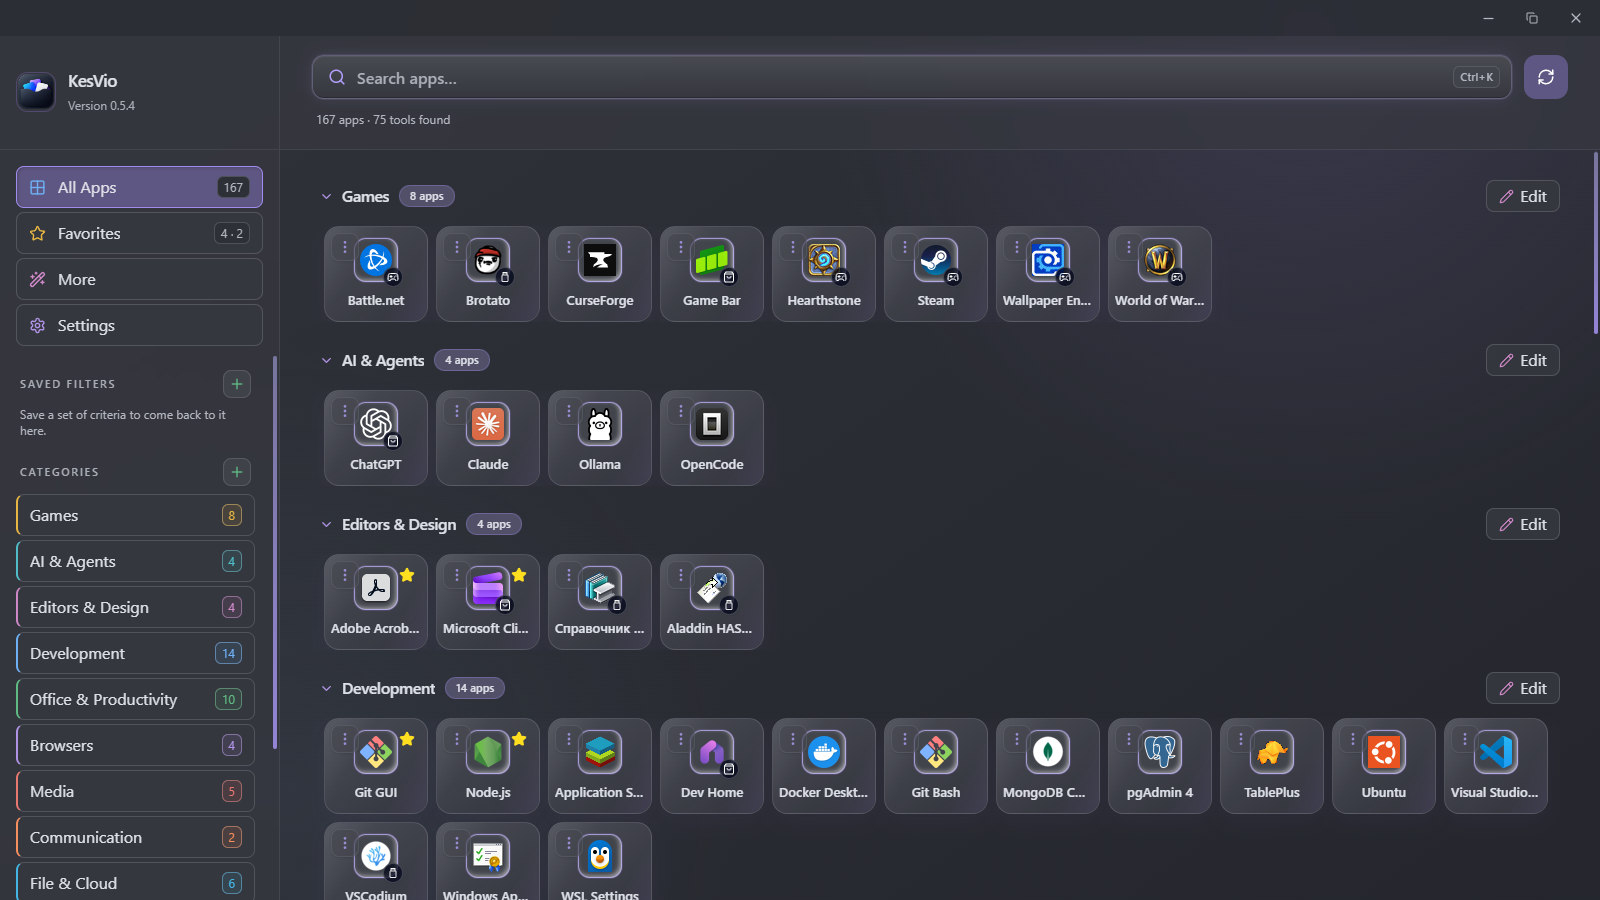
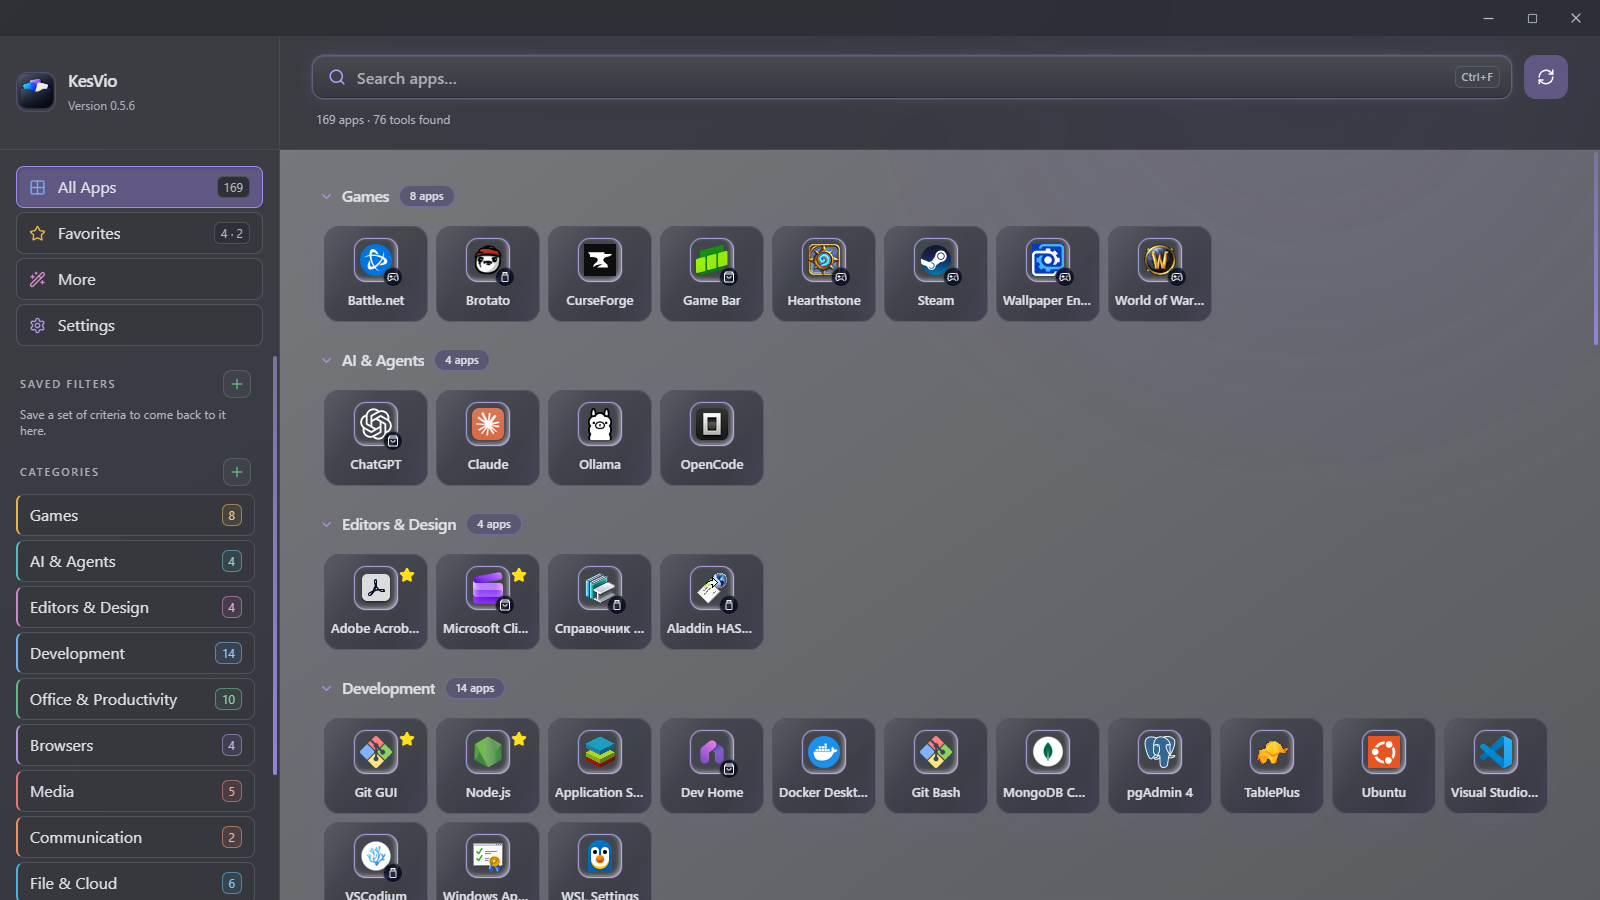
docs: refresh README screenshots for v0.5.6

diff --git a/.github/images/README.md b/.github/images/README.md
@@ -5,22 +5,18 @@ include them in the application bundle.
 
 ## Current capture
 
-Captured on 2026-09-23 from the running KesVio 0.5.4 application, built from the
-release change set that introduces these images on top of revision `63dde23`;
-`settings.png` was recaptured on 0.5.4 for its gear-and-title header and
-`favorites.png` on 2026-10-02 from 0.5.5 for the compact Favorites view, so the
-version under the logo differs between them. The window
-was rendered at a 1600 × 900 viewport through the WebView2 debugging protocol, so
-the images are native size rather than downscaled. The catalog counts, categories
-and application names come from a real Windows installation rather than fixtures.
+Captured on 2026-10-09 from the running KesVio 0.5.6 application at revision
+`0050b4b`. The window was rendered at a 1600 × 900 viewport through the WebView2
+debugging protocol, so the images are native size rather than downscaled. The
+catalog counts, categories and application names come from a real Windows
+installation rather than fixtures.
 Scenario names are presentation-ready, saved filters were hidden for the capture
 and restored afterwards, and the application details use a standard Program Files
 path without account or machine identifiers.
 
 All six application screenshots are 1600 × 900 and use the same dark theme; five
-are below 500 KB and `catalog.png`, the densest view, is about 565 KB. The Social
-Preview is 1280 × 640 and reuses the previous layout with the new catalog capture
-in its frame.
+are below 500 KB and `catalog.png`, the densest view, is about 600 KB. The existing
+Social Preview remains 1280 × 640 and is maintained separately.
 
 | File                 | Content                                                                |
 | -------------------- | ---------------------------------------------------------------------- |
@@ -29,7 +25,7 @@ in its frame.
 | `more.png`           | Auxiliary tools, Scenarios, Hidden and Installers & Docs previews.     |
 | `scenarios.png`      | Configured scenarios with their launch and close lists.                |
 | `app-info.png`       | Application information, installation path, status and detection.      |
-| `settings.png`       | Density, startup and tray behavior, shortcut and Windows apps.         |
+| `settings.png`       | Configurable and built-in shortcuts followed by catalog discovery.     |
 | `social-preview.png` | 1280 × 640 repository preview built from the icon and catalog capture. |
 
 ## Refresh guidance

diff --git a/README.md b/README.md
@@ -69,9 +69,9 @@ Inspect local file details, architecture, signature status, installation state, 
 
 ### Settings and maintenance
 
-![KesVio settings showing appearance, startup and tray behavior, and Windows integration](.github/images/settings.png)
+![KesVio settings showing configurable keyboard shortcuts and catalog discovery](.github/images/settings.png)
 
-Control catalog density, application discovery, startup and tray behavior, updates, and catalog maintenance from one place.
+Configure the global shortcut, review built-in shortcuts, and control catalog density, application discovery, startup and tray behavior, updates, and catalog maintenance from one place.
 
 <details>
 <summary>More screenshots</summary>
